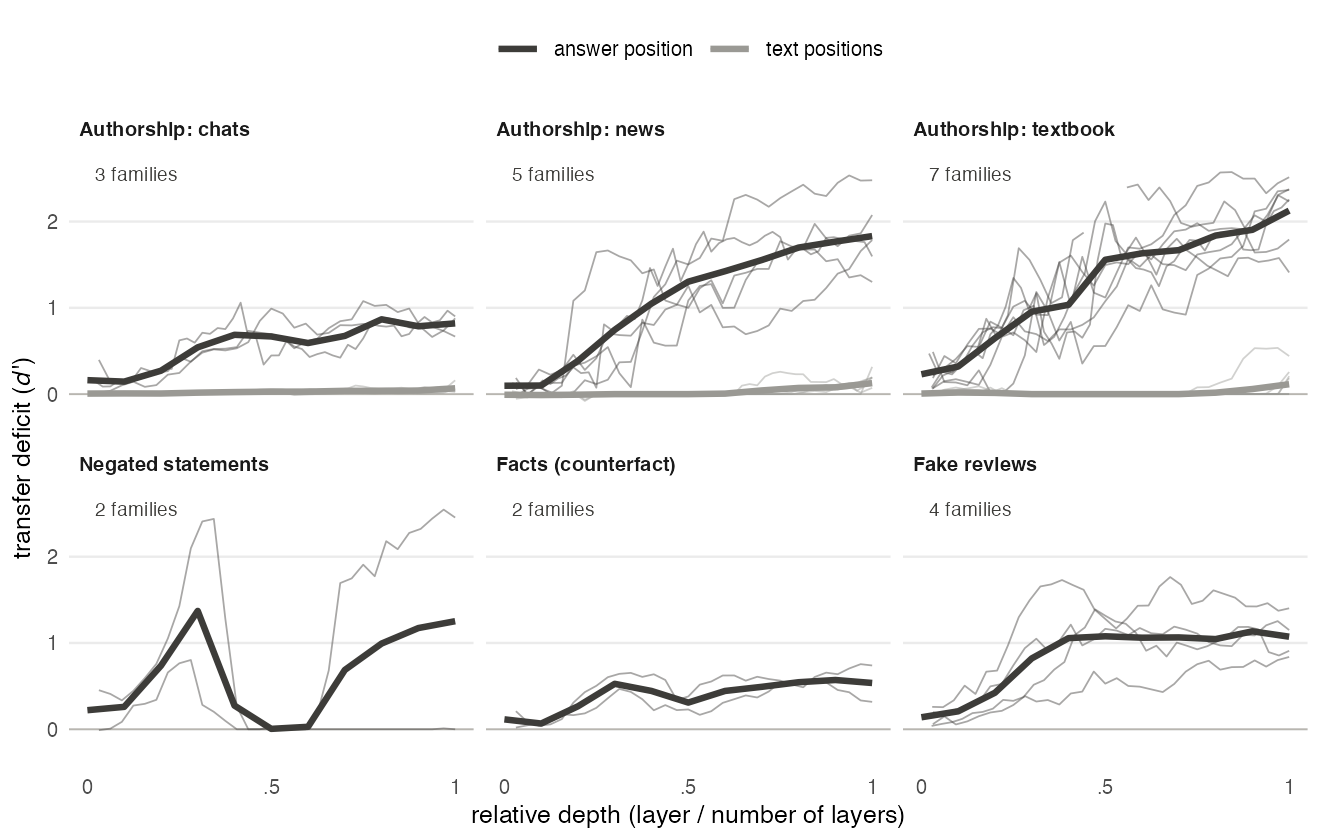
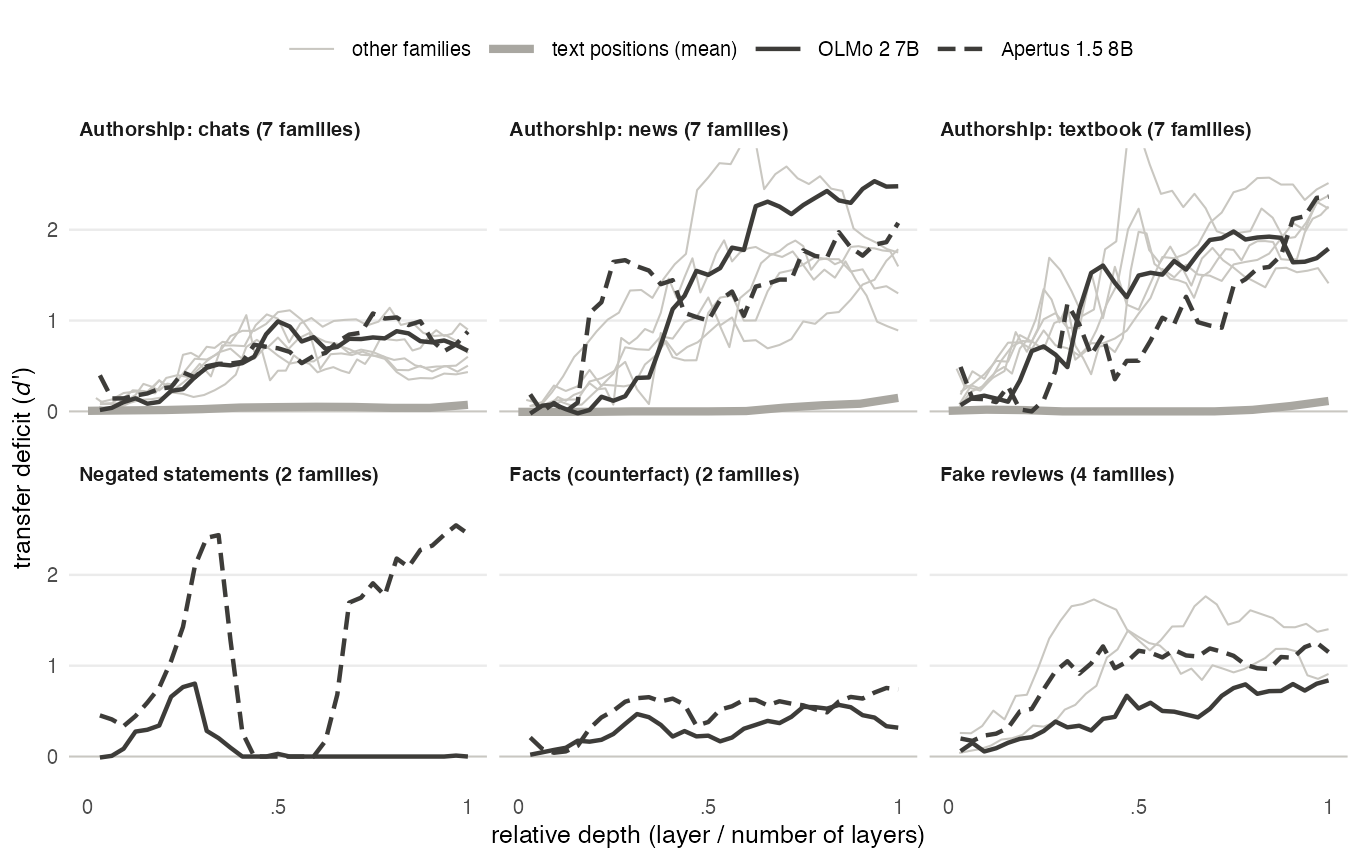
Figure S2 redone with all families (local Gemma/Qwen runs), OLMo 2/Apertus highlighted; caption final

diff --git a/paper/draft/figures.md b/paper/draft/figures.md
@@ -97,17 +97,17 @@ layer 16, the whole difference between base and SFT model is carried by the ques
 positions. Error bars
 are 95% bootstrap confidence intervals.
 
-**Figure S2 (`figS2_checkpoint_transfer`; draft 13 Nov).** Post-training leaves the
-representation of the text intact and reorganizes the answer position. For each layer, a
-linear probe was trained on one checkpoint and tested on the other (base vs. final
-post-trained model, both directions averaged); the transfer deficit is the loss in d′
-relative to the probe trained on the checkpoint itself. A deficit of 0 means that the
-same direction separates the classes in both checkpoints. Thin lines: model families;
-thick lines: mean. Light grey: mean over the text positions (authorship corpora only);
-dark: last prompt position, at which the answer is produced. At the text positions,
-probes transferred without loss at every depth, also where the probes were well below
-ceiling (chats, d′ ≈ 2). At the answer position, the deficit grew with depth in all
-families and tasks, although probes trained on each checkpoint itself still decoded the
-information. Negated statements: the dip at mid-depth reflects that both checkpoints are
-at ceiling there (AUC = 1). TODO: update when the resubmitted families (chats: Gemma 3
-4B, Qwen3, OLMo 3; news: Gemma 3 4B, Qwen3) are in.
+**Figure S2 (`figS2_checkpoint_transfer`).** Post-training leaves the representation of
+the text intact and reorganizes the answer position. For each layer, a linear probe was
+trained on one checkpoint and tested on the other (base vs. final post-trained model,
+both directions averaged); the transfer deficit is the loss in d′ relative to the probe
+trained on the checkpoint itself. A deficit of 0 means that the same direction separates
+the classes in both checkpoints. Dark lines: OLMo 2 7B (solid) and Apertus 1.5 8B
+(dashed), the two families included in all six sets; thin grey lines: the other
+families; thick light line: mean over all families at the text positions (authorship
+corpora only). At the text positions, probes transferred without loss at every depth,
+also where they were well below ceiling (chats, d′ ≈ 2). At the last prompt position, at
+which the answer is produced, the deficit grew with depth in all families and tasks,
+although probes trained on each checkpoint itself still decoded the information. For the
+negated statements, the deficit drops to zero at mid-depth because both checkpoints are
+at ceiling there (AUC = 1); OLMo 2 shows no deficit in the upper layers for this set.
